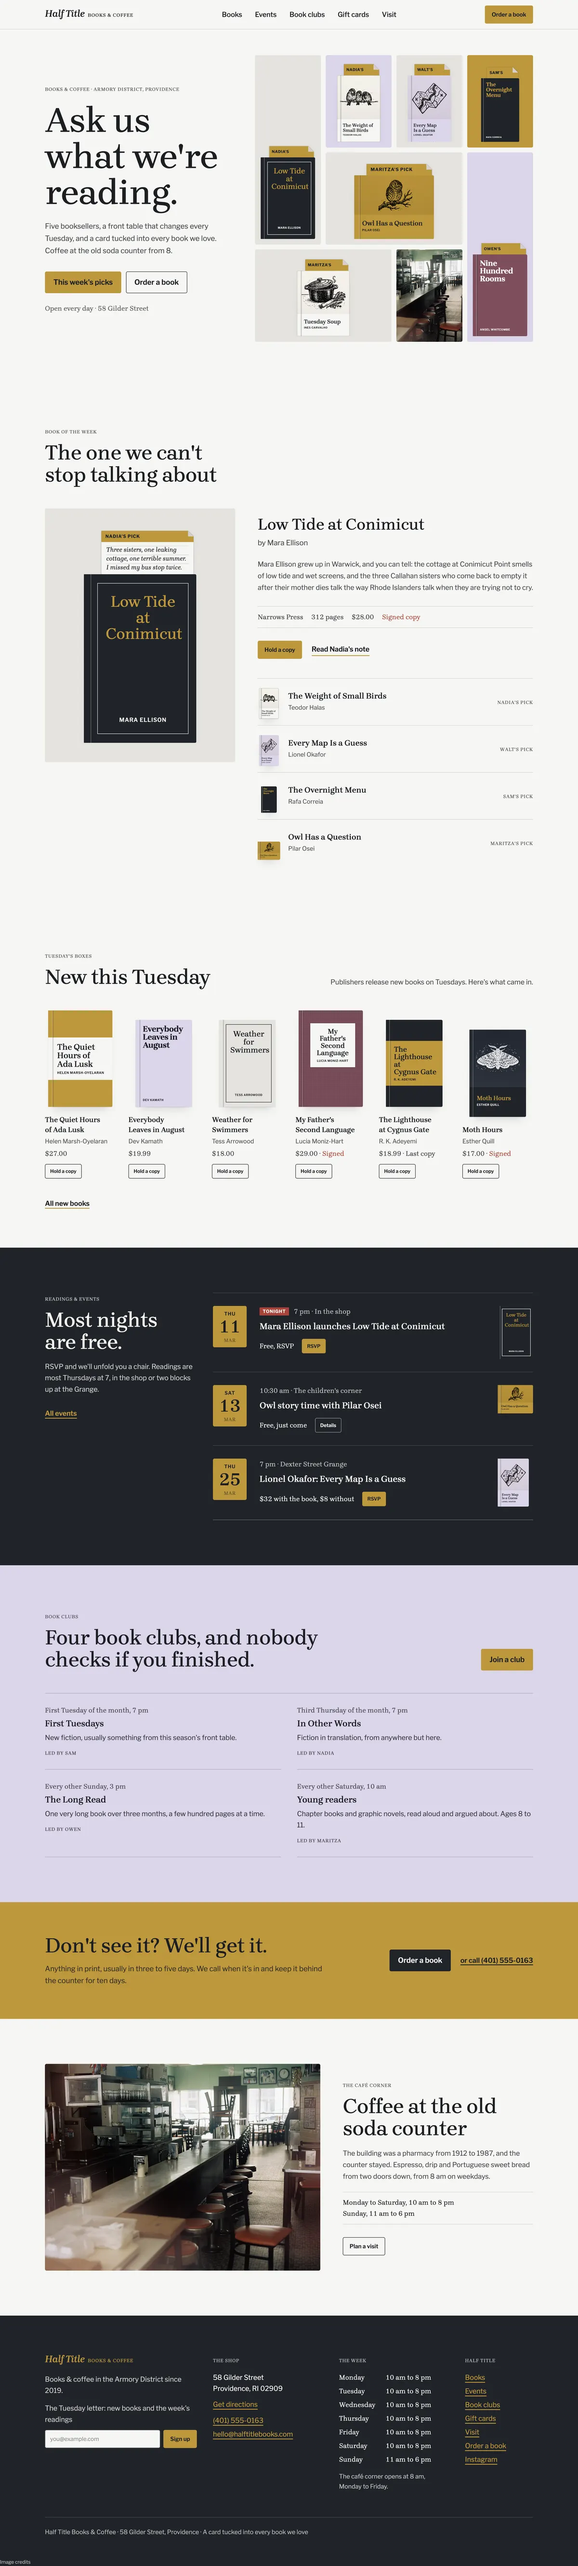
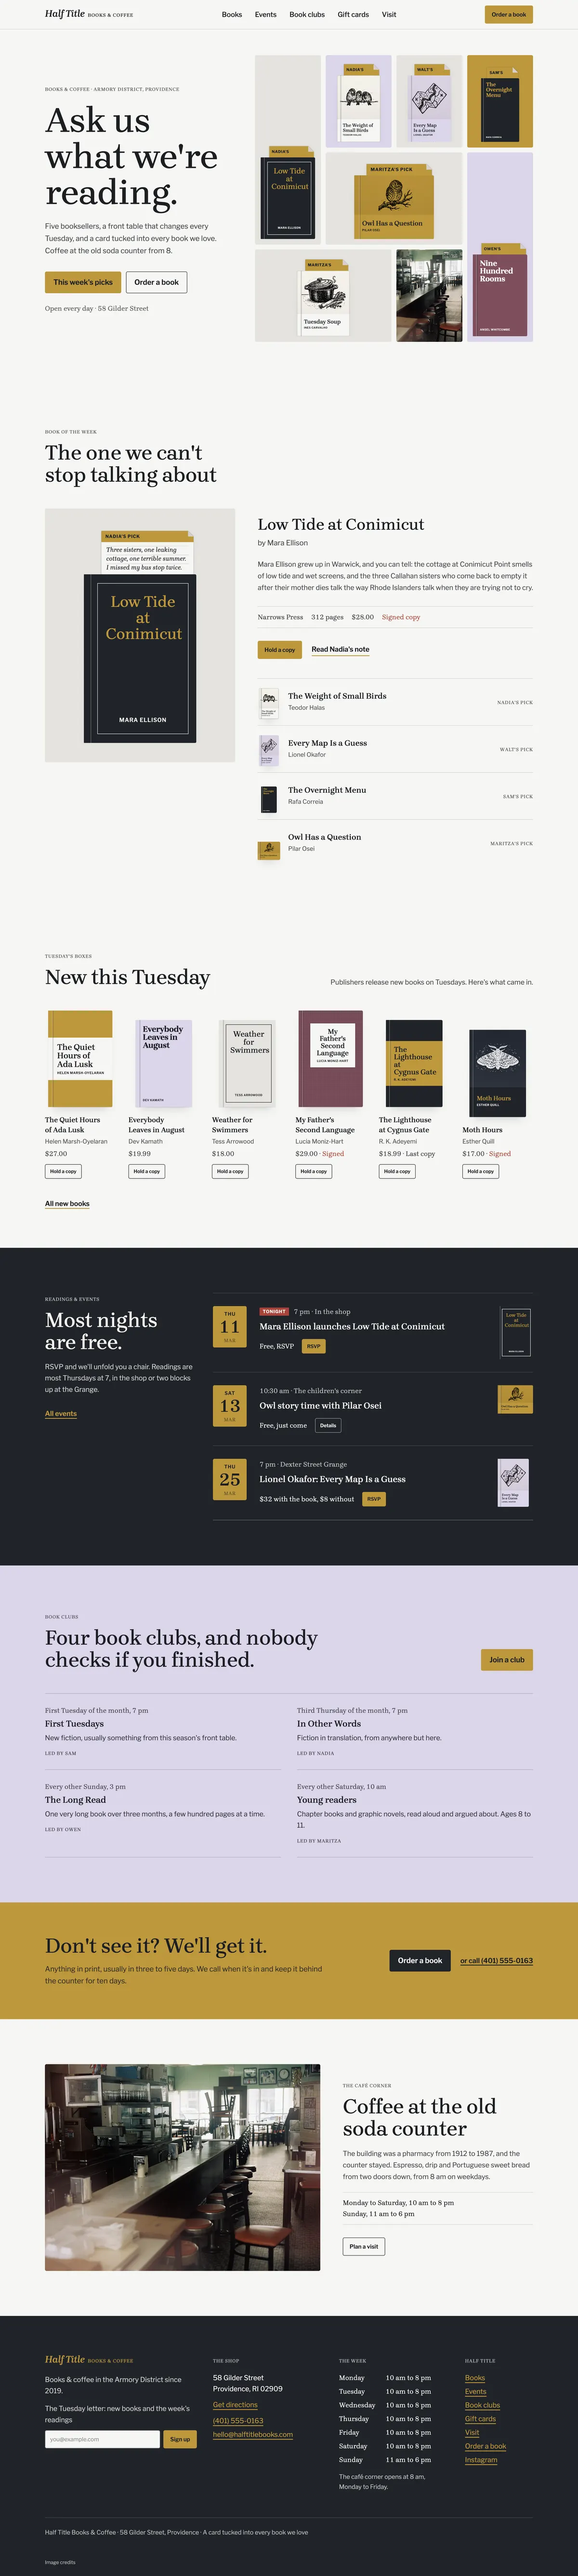
Dogear: Upstart's image credits link lines up with the footer's container instead of touching the page's edge (missed by its review), and its pictures are taken again

diff --git a/dogear/styles/site.css b/dogear/styles/site.css
@@ -774,3 +774,16 @@ option[data-when="past"] {
 [data-upcoming] > [data-beyond] {
   display: none;
 }
+
+/* Upstart's "Image credits" link, lined up with the footer's container. */
+footer [data-up-credits] {
+  padding-inline: calc(max(0px, (100% - 80rem) / 2) + 1.25rem);
+  padding-bottom: 1.5rem;
+  font-size: 0.9375rem;
+  opacity: 0.75;
+}
+@media (width >= 48rem) {
+  footer [data-up-credits] {
+    padding-inline: calc(max(0px, (100% - 80rem) / 2) + 2rem);
+  }
+}
